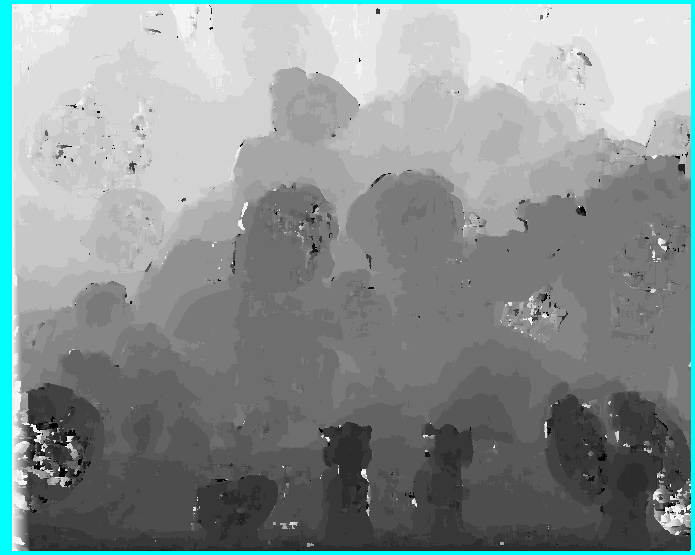
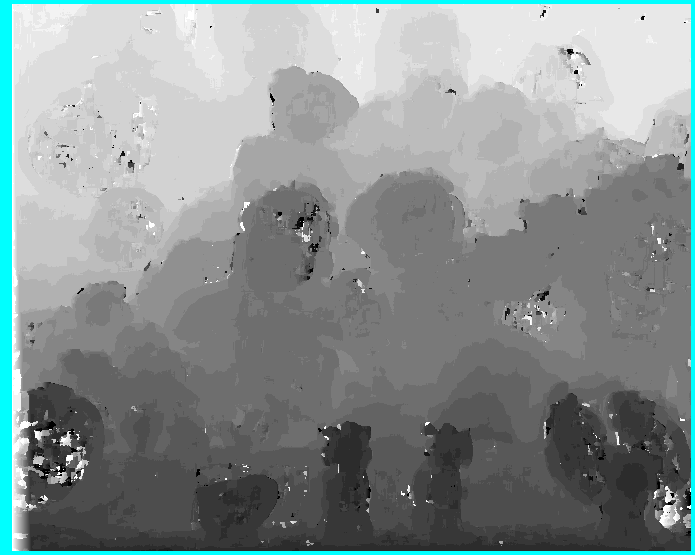
fixed bug

diff --git a/Seeds_Initial/Seeds.cpp b/Seeds_Initial/Seeds.cpp
@@ -12,6 +12,7 @@ using namespace std;
 
 // Default data
 const char *DEF_im1=srcPath("im1.jpg"), *DEF_im2=srcPath("im2.jpg");
+//const char *DEF_im1=srcPath("ex1_left.jpeg"), *DEF_im2=srcPath("ex1_right.jpeg");
 static int dmin=-30, dmax=-7; // Min and max disparities
 
 /// Min NCC for a seed
@@ -28,12 +29,13 @@ struct Seed {
     : x(x0), y(y0), d(d0), ncc(ncc0) {}
     int x,y, d;
     float ncc;
+    /// Order by NCC
+    bool operator<(const Seed& s2) const {
+        return (ncc<s2.ncc);
+    }
 };
 
-/// Order by NCC
-bool operator<(const Seed& s1, const Seed& s2) {
-    return (s1.ncc<s2.ncc);
-}
+
 
 /// 4-neighbors
 static const int dx[]={+1,  0, -1,  0};
@@ -106,8 +108,8 @@ static float correl(const Image<byte>& im1, int i1,int j1,float m1,
     float d_windows = 0, var_left = 0, var_right=0;
     int x_1,x_2,y_1,y_2;
     float Il_normalized,Ir_normalized;
-    for (int i_delta=-win;i_delta<win;i_delta++){
-        for(int j_delta=-win;j_delta<win;j_delta++){
+    for (int i_delta=-win;i_delta<=win;i_delta++){
+        for(int j_delta=-win;j_delta<=win;j_delta++){
             x_1 = i1 + i_delta; y_1 = j1+ j_delta;
             x_2 = i2 + i_delta; y_2 = j2+ j_delta;
             if (coords_in_image(im1,x_1,y_1) and coords_in_image(im2,x_2,y_2)){
@@ -131,8 +133,8 @@ static float sum(const Image<byte>& im, int i, int j) {
     float s=0.0f;
     // -------------TODO-------------
     int x,y;
-    for (int i_delta=-win;i_delta<win;i_delta++){
-        for(int j_delta=-win;j_delta<win;j_delta++){
+    for (int i_delta=-win;i_delta<=win;i_delta++){
+        for(int j_delta=-win;j_delta<=win;j_delta++){
             x = i + i_delta; y = j + j_delta;
             if (coords_in_image(im,x,y)){
                 s += im(x,y);
@@ -173,8 +175,8 @@ static void find_seeds(Image<byte> im1, Image<byte> im2,
             // ------------- TODO -------------
             // Hint: just ignore windows that are not fully in image
             NCC = -1;
-            for(int d=dmin; d<dmax;d++){
-                if(x+d>= win){
+            for(int d=dmin; d<=dmax;d++){
+                if(win<x+d and x+d<im1.width()-win){
                     NCC_tmp = ccorrel(im1,x,y,im2,x+d,y);
                     if(NCC<NCC_tmp){
                         NCC = NCC_tmp;
